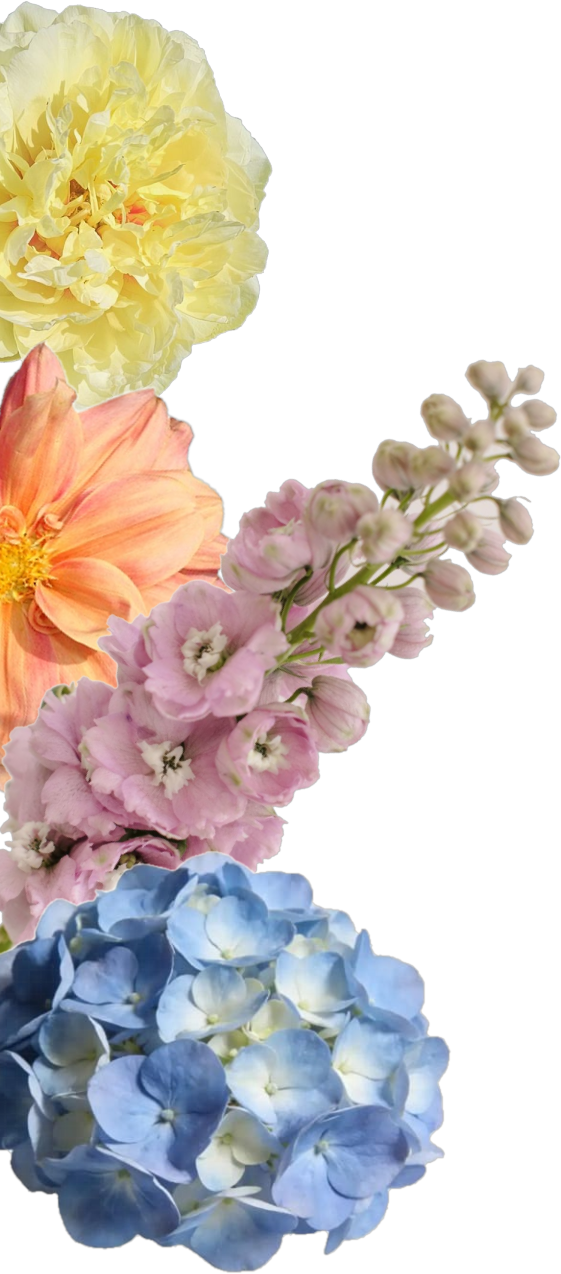
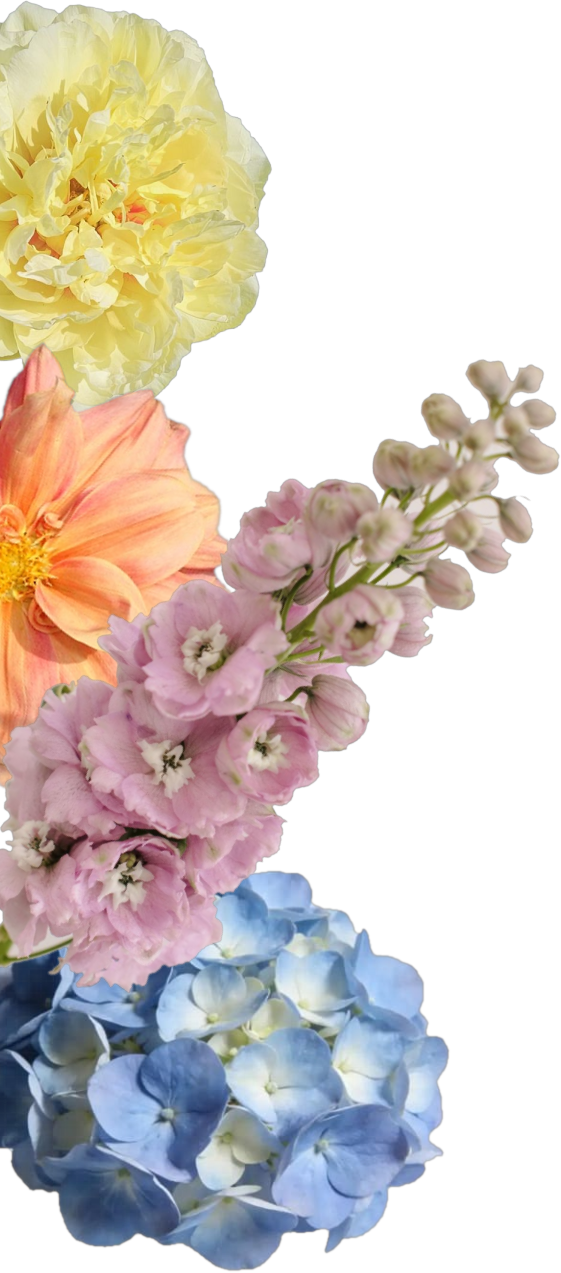
Nová pravá kytice u programu
Verze v cestě obrázku, aby prohlížeč nesáhl po staré z mezipaměti.

diff --git a/app/page.tsx b/app/page.tsx
@@ -782,7 +782,7 @@ export default function Home() {
             takže se neotáčí ani nezrcadlí. Schválně přesahují nahoru i dolů
             mimo béžový pruh. */}
         <img className="program-kytice program-kytice-vlevo" src="/kytky/kytice_program_vlevo.webp" alt="" aria-hidden="true" />
-        <img className="program-kytice program-kytice-vpravo" src="/kytky/kytice_program_vpravo.webp" alt="" aria-hidden="true" />
+        <img className="program-kytice program-kytice-vpravo" src="/kytky/kytice_program_vpravo.webp?v=3" alt="" aria-hidden="true" />
         <Reveal className="wrap">
           <p className="eyebrow">Nahlédněte</p>
           <h2>Program dne</h2>
